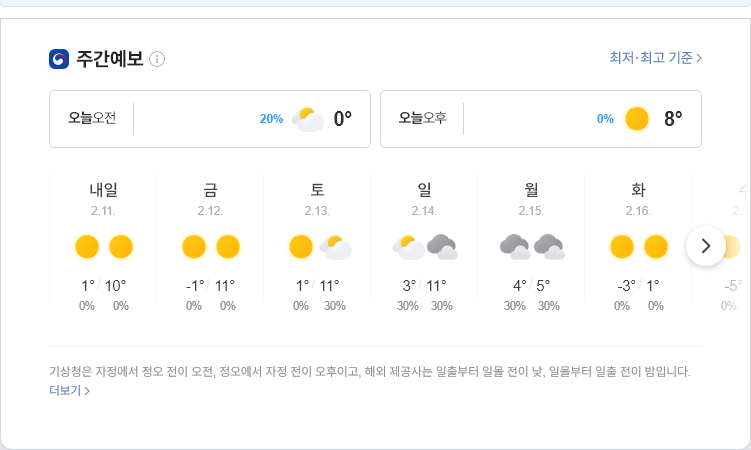
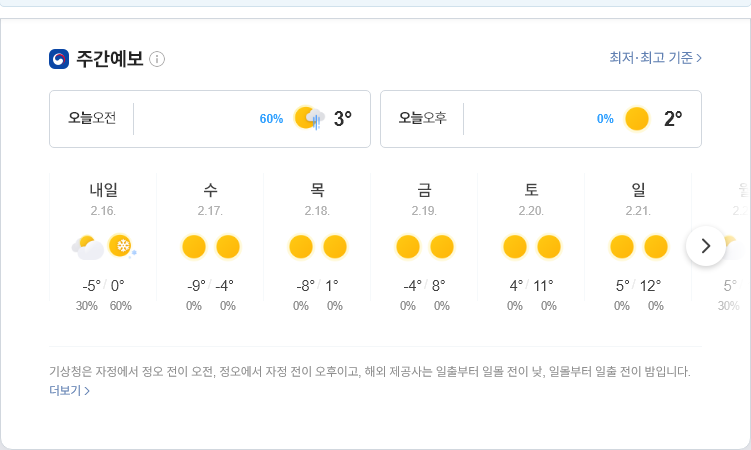
update result

diff --git a/README.md b/README.md
@@ -1,5 +1,5 @@
-##  2021-02-10 12:08:19   수요일 
-##### 날씨   -   어제보다 4° 높아요맑음  
+##  2021-02-15 09:17:26   월요일 
+##### 날씨   -   어제보다 8° 낮아요흐림  
 <center><img src="../img/naver_weather_week.png"></center>
 ----
 ----
@@ -13,43 +13,43 @@
 ##### 세계
 <table border="1" bordercolor="blue" align = "center" >
 <tr align = "right" > <td>Item</td><td>Point</td><td>Diff</td><td>Rate</td><td>Buy</td><td>Sell</td><td>...</td>  </tr>
-<tr align = "right" > <td>DOW</td><td>31,375.83</td><td>-9.93</td><td><font size="3" color="blue" >-0.03%</font></td><td><font size="3" color="black">0</font></td><td><font size="3" color="black">0</font></td><td>0</td>  </tr>
-<tr align = "right" > <td>NASDAQ</td><td>14,007.7</td><td>20.06</td><td><font size="3" color="red" >0.14%</font></td><td><font size="3" color="black">0</font></td><td><font size="3" color="black">0</font></td><td>0</td>  </tr>
-<tr align = "right" > <td>S&P</td><td>3,911.23</td><td>-4.36</td><td><font size="3" color="blue" >-0.11%</font></td><td><font size="3" color="black">0</font></td><td><font size="3" color="black">0</font></td><td>0</td>  </tr>
-<tr align = "right" > <td>SHANHAI</td><td>3,626.68</td><td>23.19</td><td><font size="3" color="red" >0.64%</font></td><td><font size="3" color="black">0</font></td><td><font size="3" color="black">0</font></td><td>0</td>  </tr>
-<tr align = "right" > <td>INDIA</td><td>51,329.08</td><td>-19.69</td><td><font size="3" color="blue" >-0.04%</font></td><td><font size="3" color="black">0</font></td><td><font size="3" color="black">0</font></td><td>0</td>  </tr>
+<tr align = "right" > <td>DOW</td><td>31,458.4</td><td>27.7</td><td><font size="3" color="red" >0.09%</font></td><td><font size="3" color="black">0</font></td><td><font size="3" color="black">0</font></td><td>0</td>  </tr>
+<tr align = "right" > <td>NASDAQ</td><td>14,095.47</td><td>69.7</td><td><font size="3" color="red" >0.5%</font></td><td><font size="3" color="black">0</font></td><td><font size="3" color="black">0</font></td><td>0</td>  </tr>
+<tr align = "right" > <td>S&P</td><td>3,934.83</td><td>18.45</td><td><font size="3" color="red" >0.47%</font></td><td><font size="3" color="black">0</font></td><td><font size="3" color="black">0</font></td><td>0</td>  </tr>
+<tr align = "right" > <td>SHANHAI</td><td>3,655.09</td><td>51.6</td><td><font size="3" color="red" >1.43%</font></td><td><font size="3" color="black">0</font></td><td><font size="3" color="black">0</font></td><td>0</td>  </tr>
+<tr align = "right" > <td>INDIA</td><td>51,544.3</td><td>12.78</td><td><font size="3" color="red" >0.02%</font></td><td><font size="3" color="black">0</font></td><td><font size="3" color="black">0</font></td><td>0</td>  </tr>
 </table>
 ----
 ##### 시장
 <table border="1" bordercolor="blue" align = "center" >
 <tr align = "right" > <td>Item</td><td>Price</td><td>Diff</td><td>Rate</td><td>Buy</td><td>Sell</td><td>...</td>  </tr>
-<tr align = "right" > <td>USD</td><td>1,109.0</td><td>-4.3</td><td><font size="3" color="blue">-0.39%</font></td><td><font size="3" color="orangered">1,110</font></td><td><font size="3" color="black">0</font></td><td>0</td>  </tr>
-<tr align = "right" > <td>WTI</td><td>58.36</td><td>0.39</td><td><font size="3" color="red">0.67%</font></td><td><font size="3" color="black">29.0</font></td><td><font size="3" color="black">0</font></td><td>0</td>  </tr>
-<tr align = "right" > <td>GOLD</td><td>1,835.0</td><td>3.4</td><td><font size="3" color="red">0.18%</font></td><td><font size="3" color="black">0</font></td><td><font size="3" color="black">0</font></td><td>0</td>  </tr>
+<tr align = "right" > <td>USD</td><td>1,104.0</td><td>-2.7</td><td><font size="3" color="blue">-0.24%</font></td><td><font size="3" color="orangered">1,110</font></td><td><font size="3" color="black">0</font></td><td>0</td>  </tr>
+<tr align = "right" > <td>WTI</td><td>59.47</td><td>1.23</td><td><font size="3" color="red">2.11%</font></td><td><font size="3" color="black">29.0</font></td><td><font size="3" color="black">0</font></td><td>0</td>  </tr>
+<tr align = "right" > <td>GOLD</td><td>1,821.0</td><td>-3.3</td><td><font size="3" color="blue">-0.18%</font></td><td><font size="3" color="black">0</font></td><td><font size="3" color="black">0</font></td><td>0</td>  </tr>
 </table>
 ----
 ##### 주가
 <table border="1" bordercolor="blue" align = "center" >
 <tr align = "right" > <td>Item</td><td>Price</td><td>Diff</td><td>Rate</td><td>Purchased</td><td>Sell</td><td>Buy</td>  </tr>
-<tr align = "right" > <td>한국 전력</td><td>23,950</td><td>-350</td><td><font size="3" color="blue">-1.44%</font></td><td>25,720</td><td><font size="3" color="black">27,700</font></td><td><font size="3" color="black">20,700</font></td>  </tr>
-<tr align = "right" > <td>삼성엔지니어.</td><td>13,400</td><td>300</td><td><font size="3" color="red">2.29%</font></td><td>18,935</td><td><font size="3" color="black">20,000</font></td><td><font size="3" color="black">8,000</font></td>  </tr>
-<tr align = "right" > <td>CJ CGV</td><td>27,000</td><td>-600</td><td><font size="3" color="blue">-2.17%</font></td><td>34,895</td><td><font size="3" color="black">36,000</font></td><td><font size="3" color="black">0</font></td>  </tr>
-<tr align = "right" > <td>아모레퍼시픽</td><td>227,000</td><td>2,000</td><td><font size="3" color="red">0.89%</font></td><td>235,350</td><td><font size="3" color="black">240,000</font></td><td><font size="3" color="black">130,000</font></td>  </tr>
-<tr align = "right" > <td>한화</td><td>33,450</td><td>200</td><td><font size="3" color="red">0.6%</font></td><td>25,550</td><td><font size="3" color="black">26,250</font></td><td><font size="3" color="black">26,250</font></td>  </tr>
-<tr align = "right" > <td>NAVER</td><td>363,500</td><td>5,000</td><td><font size="3" color="red">1.39%</font></td><td>147,200</td><td><font size="3" color="black">386,000</font></td><td><font size="3" color="black">286,000</font></td>  </tr>
-<tr align = "right" > <td>LG 화학우</td><td>469,000</td><td>-12,000</td><td><font size="3" color="blue">-2.49%</font></td><td>202,490</td><td><font size="3" color="black">384,000</font></td><td><font size="3" color="black">384,000</font></td>  </tr>
-<tr align = "right" > <td>스튜디오드래.</td><td>97,700</td><td>800</td><td><font size="3" color="red">0.83%</font></td><td>81,243</td><td><font size="3" color="black">85,200</font></td><td><font size="3" color="black">85,200</font></td>  </tr>
-<tr align = "right" > <td>QV미국IT</td><td>26,840</td><td>0</td><td><font size="3" color="black">0.0%</font></td><td>0</td><td><font size="3" color="black">30,000</font></td><td><font size="3" color="black">20,000</font></td>  </tr>
-<tr align = "right" > <td>삼성 전자우</td><td>73,600</td><td>-400</td><td><font size="3" color="blue">-0.54%</font></td><td>48,250</td><td><font size="3" color="black">56,000</font></td><td><font size="3" color="black">45,000</font></td>  </tr>
-<tr align = "right" > <td>LS</td><td>70,200</td><td>-1,600</td><td><font size="3" color="blue">-2.23%</font></td><td>71,400</td><td><font size="3" color="black">82,000</font></td><td><font size="3" color="black">60,000</font></td>  </tr>
-<tr align = "right" > <td>한화에어로스.</td><td>43,300</td><td>2,450</td><td><font size="3" color="red">6.0%</font></td><td>25,700</td><td><font size="3" color="black">30,000</font></td><td><font size="3" color="black">24,000</font></td>  </tr>
-<tr align = "right" > <td>카카오</td><td>481,000</td><td>20,000</td><td><font size="3" color="red">4.34%</font></td><td>405,500</td><td><font size="3" color="black">440,000</font></td><td><font size="3" color="black">400,000</font></td>  </tr>
-<tr align = "right" > <td>호텔 신라</td><td>81,600</td><td>-500</td><td><font size="3" color="blue">-0.61%</font></td><td>72,800</td><td><font size="3" color="black">100,000</font></td><td><font size="3" color="black">70,000</font></td>  </tr>
-<tr align = "right" > <td>S-Oil</td><td>82,500</td><td>1,300</td><td><font size="3" color="red">1.6%</font></td><td>62,842</td><td><font size="3" color="black">100,000</font></td><td><font size="3" color="black">50,000</font></td>  </tr>
-<tr align = "right" > <td>LG전자</td><td>167,500</td><td>6,500</td><td><font size="3" color="red">4.04%</font></td><td>82,022</td><td><font size="3" color="black">100,000</font></td><td><font size="3" color="black">60,000</font></td>  </tr>
-<tr align = "right" > <td>지역난방공사</td><td>38,300</td><td>150</td><td><font size="3" color="red">0.39%</font></td><td>43,590</td><td><font size="3" color="black">60,000</font></td><td><font size="3" color="black">30,000</font></td>  </tr>
-<tr align = "right" > <td>KOEDX은행</td><td>6,400</td><td>45</td><td><font size="3" color="red">0.71%</font></td><td>5,178</td><td><font size="3" color="black">6,225</font></td><td><font size="3" color="black">6,225</font></td>  </tr>
-<tr align = "right" > <td>글로벌럭셔리</td><td>16,135</td><td>135</td><td><font size="3" color="red">0.84%</font></td><td>15,260</td><td><font size="3" color="black">20,000</font></td><td><font size="3" color="black">10,000</font></td>  </tr>
-<tr align = "right" > <td>한국금융지주</td><td>86,300</td><td>-300</td><td><font size="3" color="blue">-0.35%</font></td><td>0</td><td><font size="3" color="black">82,000</font></td><td><font size="3" color="black">60,000</font></td>  </tr>
+<tr align = "right" > <td>한국 전력</td><td>23,850</td><td>-100</td><td><font size="3" color="blue">-0.42%</font></td><td>25,720</td><td><font size="3" color="black">27,700</font></td><td><font size="3" color="black">20,700</font></td>  </tr>
+<tr align = "right" > <td>삼성엔지니어.</td><td>13,500</td><td>0</td><td><font size="3" color="black">0.0%</font></td><td>18,935</td><td><font size="3" color="black">20,000</font></td><td><font size="3" color="black">8,000</font></td>  </tr>
+<tr align = "right" > <td>CJ CGV</td><td>27,650</td><td>550</td><td><font size="3" color="red">2.03%</font></td><td>34,895</td><td><font size="3" color="black">36,000</font></td><td><font size="3" color="black">0</font></td>  </tr>
+<tr align = "right" > <td>아모레퍼시픽</td><td>233,500</td><td>4,000</td><td><font size="3" color="red">1.74%</font></td><td>235,350</td><td><font size="3" color="black">240,000</font></td><td><font size="3" color="black">130,000</font></td>  </tr>
+<tr align = "right" > <td>한화</td><td>33,750</td><td>-50</td><td><font size="3" color="blue">-0.15%</font></td><td>25,550</td><td><font size="3" color="black">26,250</font></td><td><font size="3" color="black">26,250</font></td>  </tr>
+<tr align = "right" > <td>NAVER</td><td>380,500</td><td>14,000</td><td><font size="3" color="red">3.82%</font></td><td>147,200</td><td><font size="3" color="black">386,000</font></td><td><font size="3" color="black">286,000</font></td>  </tr>
+<tr align = "right" > <td>LG 화학우</td><td>484,500</td><td>13,000</td><td><font size="3" color="red">2.76%</font></td><td>202,490</td><td><font size="3" color="black">384,000</font></td><td><font size="3" color="black">384,000</font></td>  </tr>
+<tr align = "right" > <td>스튜디오드래.</td><td>100,100</td><td>1,400</td><td><font size="3" color="red">1.42%</font></td><td>81,243</td><td><font size="3" color="black">85,200</font></td><td><font size="3" color="black">85,200</font></td>  </tr>
+<tr align = "right" > <td>QV미국IT</td><td>26,930</td><td>0</td><td><font size="3" color="black">0.0%</font></td><td>0</td><td><font size="3" color="black">30,000</font></td><td><font size="3" color="black">20,000</font></td>  </tr>
+<tr align = "right" > <td>삼성 전자우</td><td>75,200</td><td>900</td><td><font size="3" color="red">1.21%</font></td><td>48,250</td><td><font size="3" color="black">56,000</font></td><td><font size="3" color="black">45,000</font></td>  </tr>
+<tr align = "right" > <td>LS</td><td>69,900</td><td>-600</td><td><font size="3" color="blue">-0.85%</font></td><td>71,400</td><td><font size="3" color="black">82,000</font></td><td><font size="3" color="black">60,000</font></td>  </tr>
+<tr align = "right" > <td>한화에어로스.</td><td>43,400</td><td>100</td><td><font size="3" color="red">0.23%</font></td><td>25,700</td><td><font size="3" color="black">30,000</font></td><td><font size="3" color="black">24,000</font></td>  </tr>
+<tr align = "right" > <td>카카오</td><td>495,500</td><td>6,000</td><td><font size="3" color="red">1.23%</font></td><td>405,500</td><td><font size="3" color="black">440,000</font></td><td><font size="3" color="black">400,000</font></td>  </tr>
+<tr align = "right" > <td>호텔 신라</td><td>82,000</td><td>-100</td><td><font size="3" color="blue">-0.12%</font></td><td>72,800</td><td><font size="3" color="black">100,000</font></td><td><font size="3" color="black">70,000</font></td>  </tr>
+<tr align = "right" > <td>S-Oil</td><td>87,200</td><td>4,500</td><td><font size="3" color="red">5.44%</font></td><td>62,842</td><td><font size="3" color="black">100,000</font></td><td><font size="3" color="black">50,000</font></td>  </tr>
+<tr align = "right" > <td>LG전자</td><td>167,000</td><td>-500</td><td><font size="3" color="blue">-0.3%</font></td><td>82,022</td><td><font size="3" color="black">100,000</font></td><td><font size="3" color="black">60,000</font></td>  </tr>
+<tr align = "right" > <td>지역난방공사</td><td>38,550</td><td>100</td><td><font size="3" color="red">0.26%</font></td><td>43,590</td><td><font size="3" color="black">60,000</font></td><td><font size="3" color="black">30,000</font></td>  </tr>
+<tr align = "right" > <td>KOEDX은행</td><td>6,475</td><td>55</td><td><font size="3" color="red">0.86%</font></td><td>5,178</td><td><font size="3" color="black">6,225</font></td><td><font size="3" color="black">6,225</font></td>  </tr>
+<tr align = "right" > <td>글로벌럭셔리</td><td>15,825</td><td>-345</td><td><font size="3" color="blue">-2.13%</font></td><td>15,260</td><td><font size="3" color="black">20,000</font></td><td><font size="3" color="black">10,000</font></td>  </tr>
+<tr align = "right" > <td>한국금융지주</td><td>89,500</td><td>2,900</td><td><font size="3" color="red">3.35%</font></td><td>0</td><td><font size="3" color="black">82,000</font></td><td><font size="3" color="black">60,000</font></td>  </tr>
 </table>
 ----
